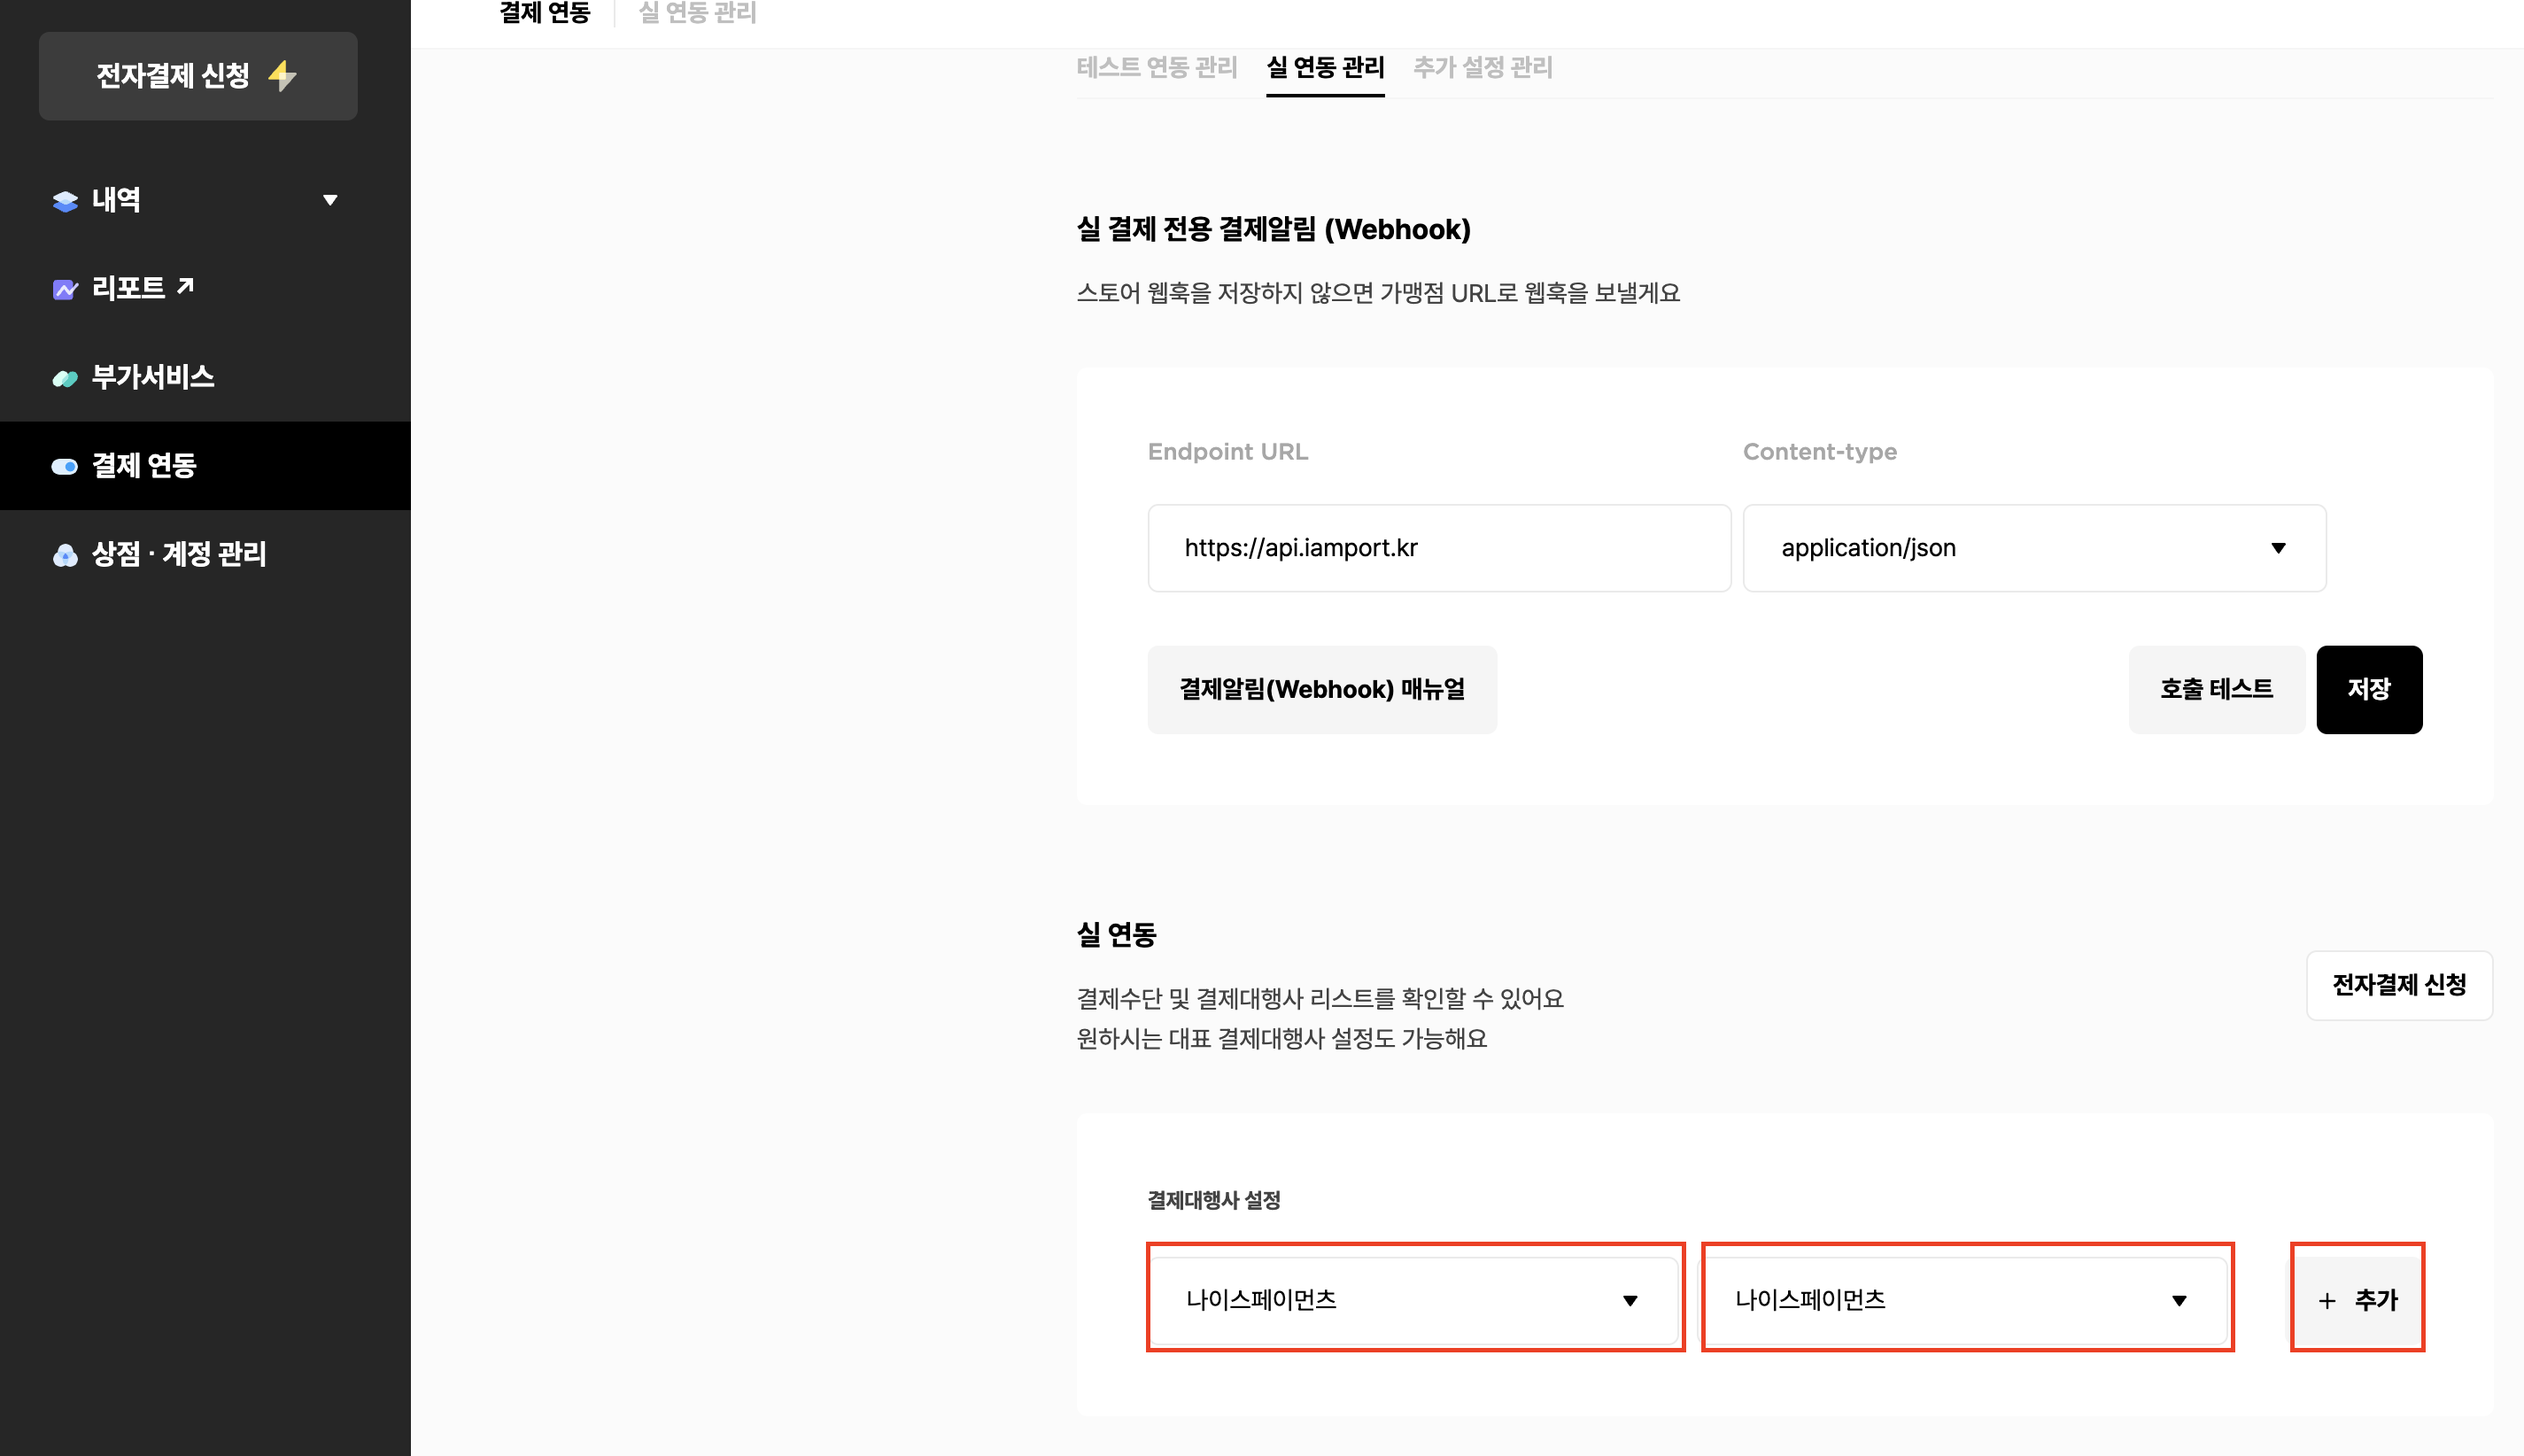
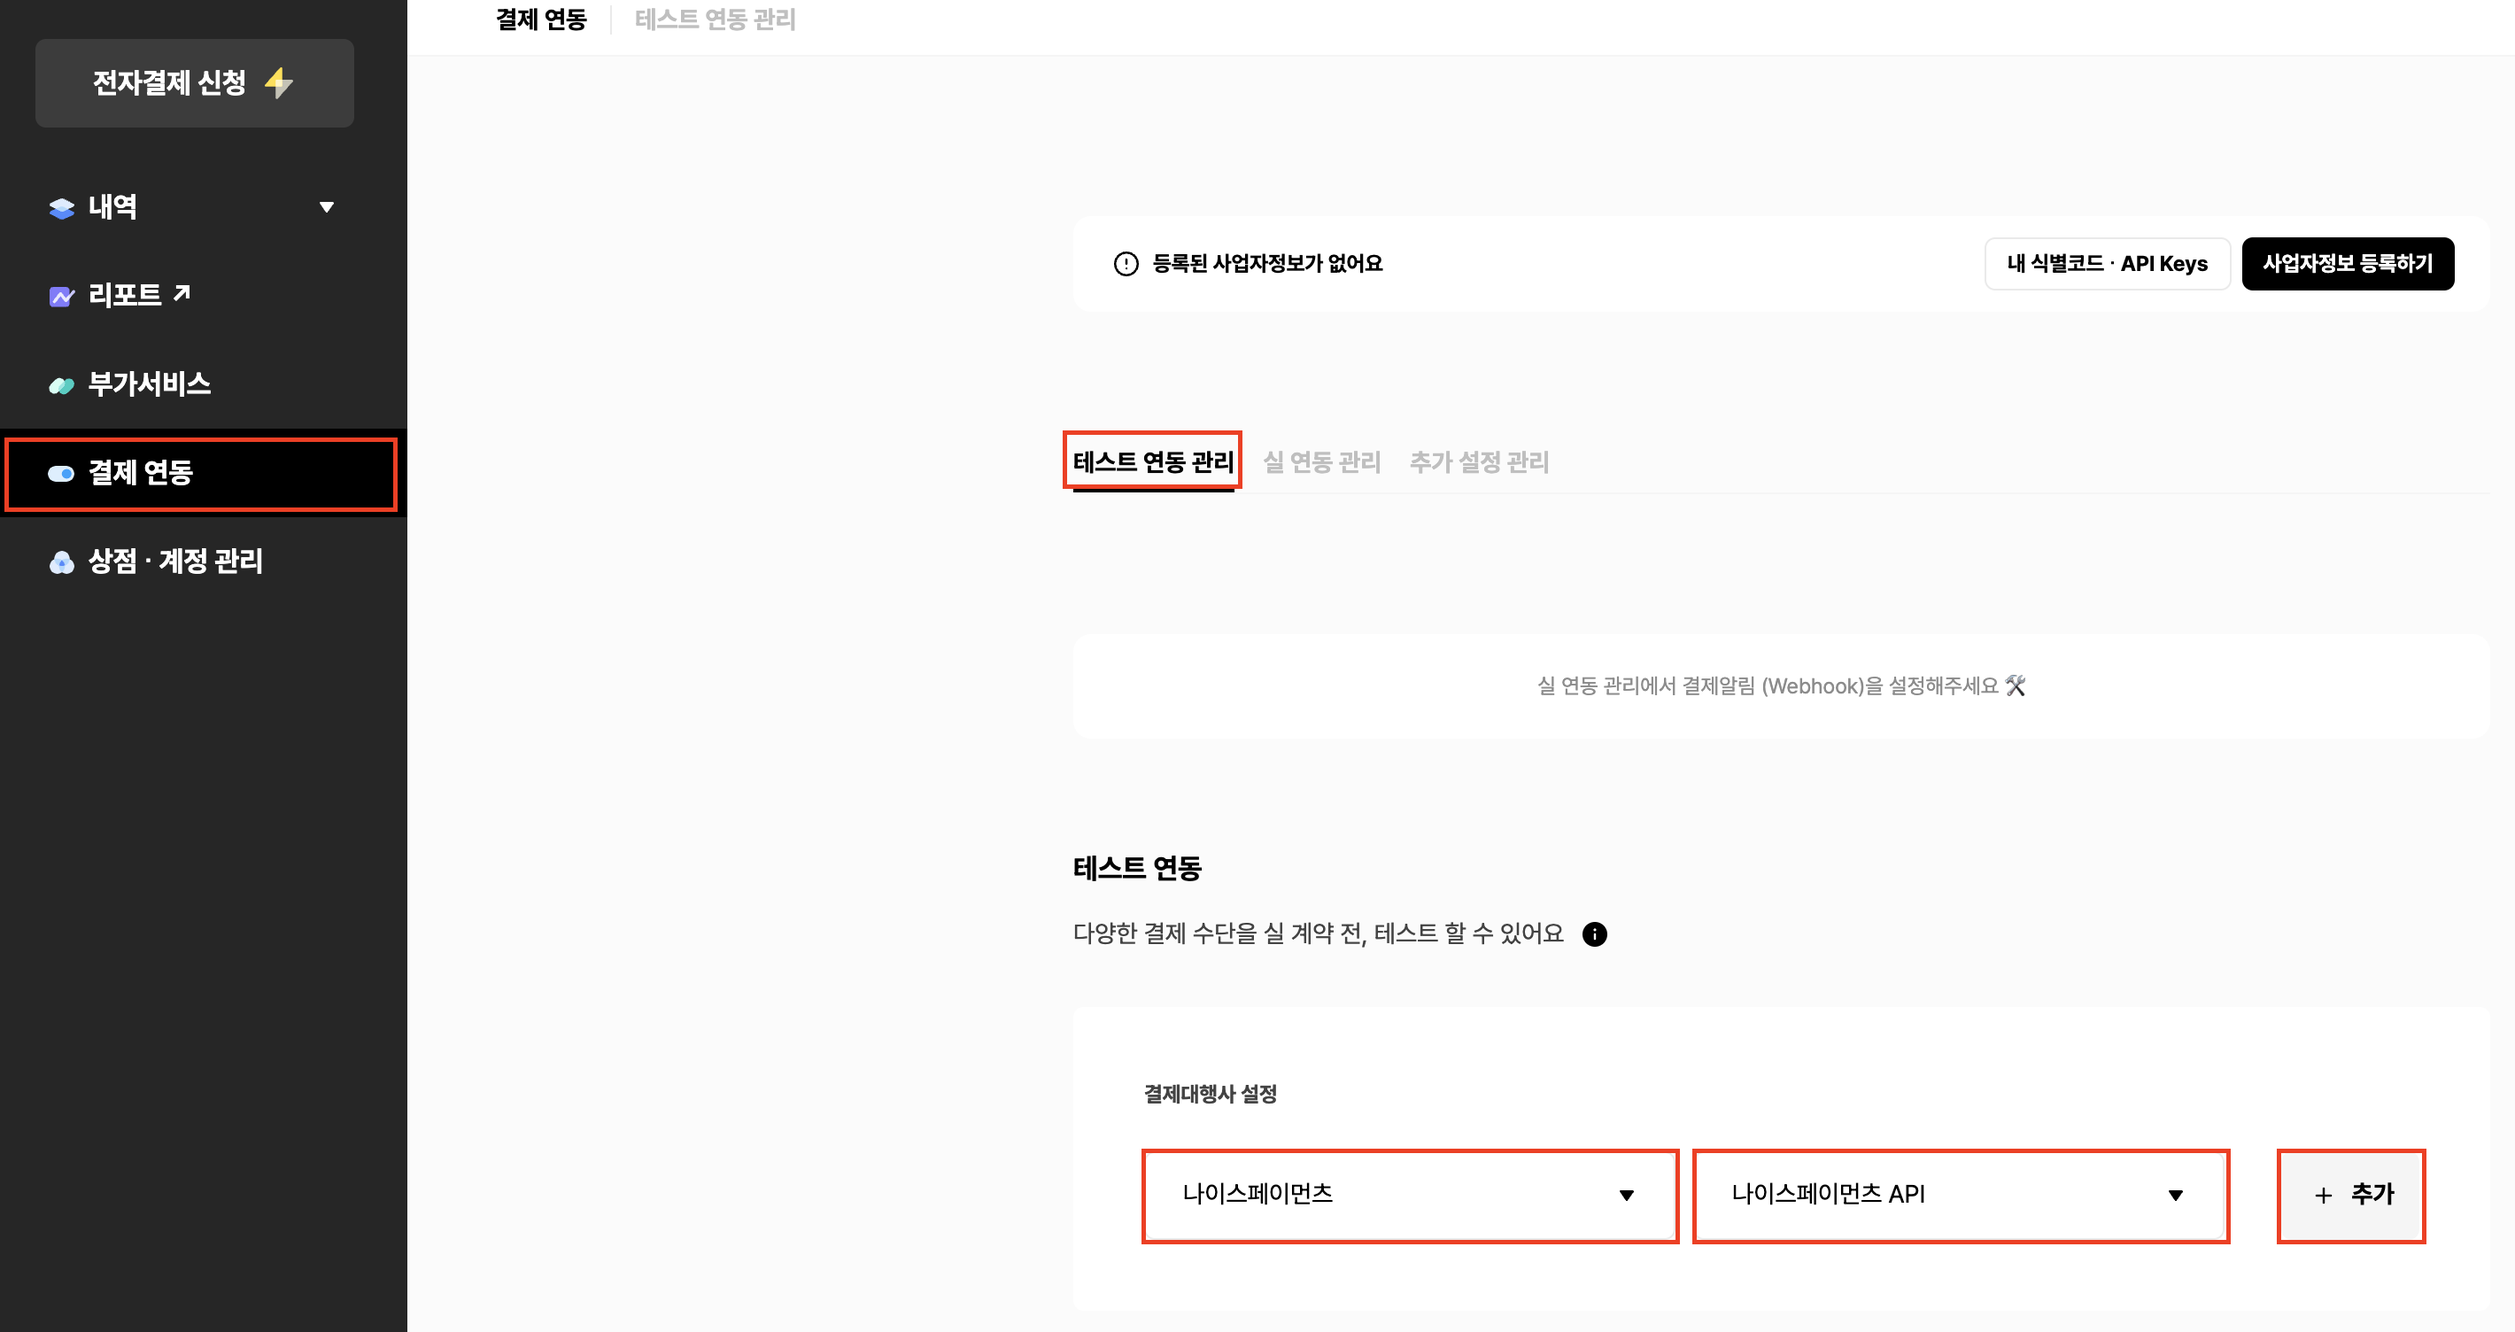
GitBook: [#553] No subject

diff --git a/ready/2.-pg/payment-gateway/nice.md b/ready/2.-pg/payment-gateway/nice.md
@@ -10,7 +10,8 @@ description: 나이스페이먼츠 인증결제 및 비 인증 결제 설정 방
 {% tab title="테스트 결제" %}
 ### 테스트 환경 구성방법
 
-[아임포트 관리자 콘솔](https://admin.iamport.kr/)→ **결제 연동** -> **테스트 연동 관리** -> <mark style="color:red;">**나이스페이먼츠**</mark> 선택 -> **나이스페이먼츠**->추가
+1. [아임포트 관리자 콘솔](https://admin.iamport.kr/)→ **결제 연동** -> **테스트 연동 관리** -> <mark style="color:red;">**나이스페이먼츠**</mark> 선택 -> **나이스페이먼츠**->추가
+2. 자동으로 셋팅된 MID값을 확인 후 **저장** 선택&#x20;
 
 
 
@@ -20,7 +21,7 @@ description: 나이스페이먼츠 인증결제 및 비 인증 결제 설정 방
 
 ![결제 연동 -> 테스트 연동 관리 -> 나이스페이먼츠 선택 -> 나이스페이먼츠->추가](<../../../.gitbook/assets/image (5).png>)
 
-
+![자동으로 셋팅된 MID값을 확인 후 저장 선택 ](../../../.gitbook/assets/image.png)
 
 나이스페이먼츠 테스트 모드에서는 아래 결제 방식을 사용할 수 없습니다.&#x20;
 
@@ -43,11 +44,11 @@ description: 나이스페이먼츠 인증결제 및 비 인증 결제 설정 방
 
 
 
-![결제 연동 -> 실 연동 관리 선택 ](<../../../.gitbook/assets/image (3).png>)
+![결제 연동 -> 실 연동 관리 선택 ](<../../../.gitbook/assets/image (3) (1).png>)
 
-![나이스페이먼츠 선택 -> 나이스페이먼츠 -> 추가 선택](<../../../.gitbook/assets/image (1).png>)
+![나이스페이먼츠 선택 -> 나이스페이먼츠 -> 추가 선택](<../../../.gitbook/assets/image (1) (3).png>)
 
-![카드사 심사 완료 후 나이스페이먼츠에서 발급받은 실 상점 정보 설정](../../../.gitbook/assets/image.png)
+![카드사 심사 완료 후 나이스페이먼츠에서 발급받은 실 상점 정보 설정](<../../../.gitbook/assets/image (3).png>)
 
 {% hint style="info" %}
 **가상게좌 사용시 주의사항**
@@ -65,11 +66,14 @@ description: 나이스페이먼츠 인증결제 및 비 인증 결제 설정 방
 {% tab title="API 방식" %}
 ### 테스트 환경 구성방법
 
-[아임포트 관리자 콘솔](https://admin.iamport.kr/)→ 시스템설정 → PG설정(<mark style="color:red;">**정기결제 및 키인결제**</mark>) → PG사 나이스페이먼츠 선택 → \[카드사 심사 전 개발용 계정 설정] 클릭 → \[저장] 클릭
+1. [아임포트 관리자 콘솔](https://admin.iamport.kr/)→ **결제 연동** -> **테스트연동 관리**-> **나이스페이먼츠** 선택 -><mark style="color:red;">**나이스페이먼츠 API**</mark> -> 추가&#x20;
+2. 자동으로 설정된 테스트 MID 확인후 **저장** 버튼 선택&#x20;
 
+![아임포트 관리자 콘솔→ 결제 연동 -> 테스트연동 관리-> 나이스페이먼츠 선택 ->나이스페이먼츠 API -> 추가](<../../../.gitbook/assets/image (1).png>)
 
+![자동으로 설정된 테스트 MID 확인후 저장 버튼 선택](<../../../.gitbook/assets/image (2).png>)
 
-![설정 화면 예시](<../../../.gitbook/assets/image (19) (1) (1) (1) (1) (1).png>)
+###
 
 ### 실  환경 구성방법
 

diff --git a/ready/2.-pg/payment-gateway/nhn-kcp.md b/ready/2.-pg/payment-gateway/nhn-kcp.md
@@ -26,7 +26,7 @@ description: NHN KCP 설정방법을 안내합니다.
 
 KCP 계약 이후 발급받은 **사이트코드**와 **사이트키**를 추가 버튼을 이용하여 올바르게 기입 후 저장합니다.
 
-![설정 예시화면](<../../../.gitbook/assets/image (3) (1).png>) ![정보 입력 화면    ](<../../../.gitbook/assets/image (21).png>)
+![설정 예시화면](<../../../.gitbook/assets/image (3) (1) (3).png>) ![정보 입력 화면    ](<../../../.gitbook/assets/image (21).png>)
 {% endtab %}
 {% endtabs %}
 
